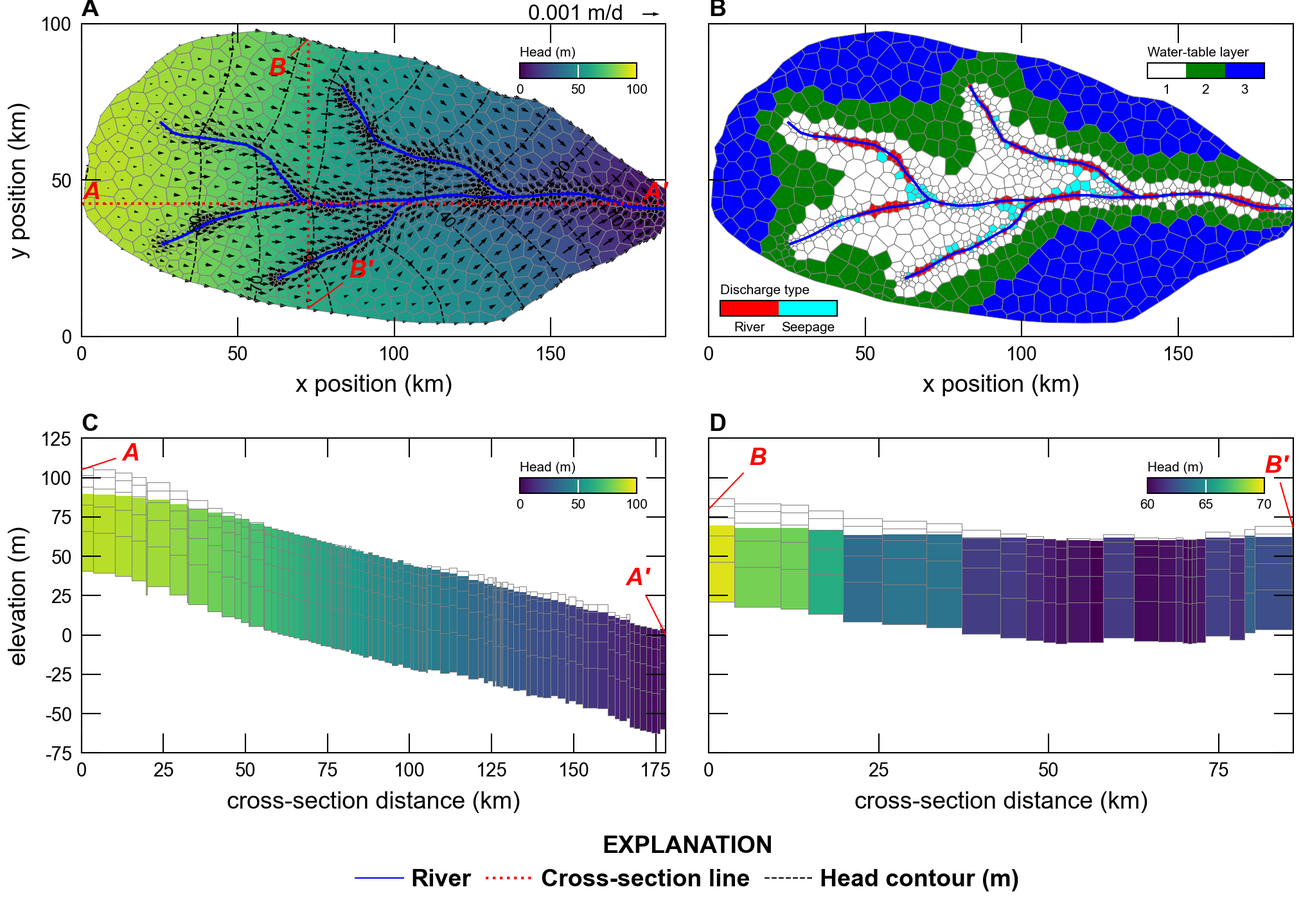
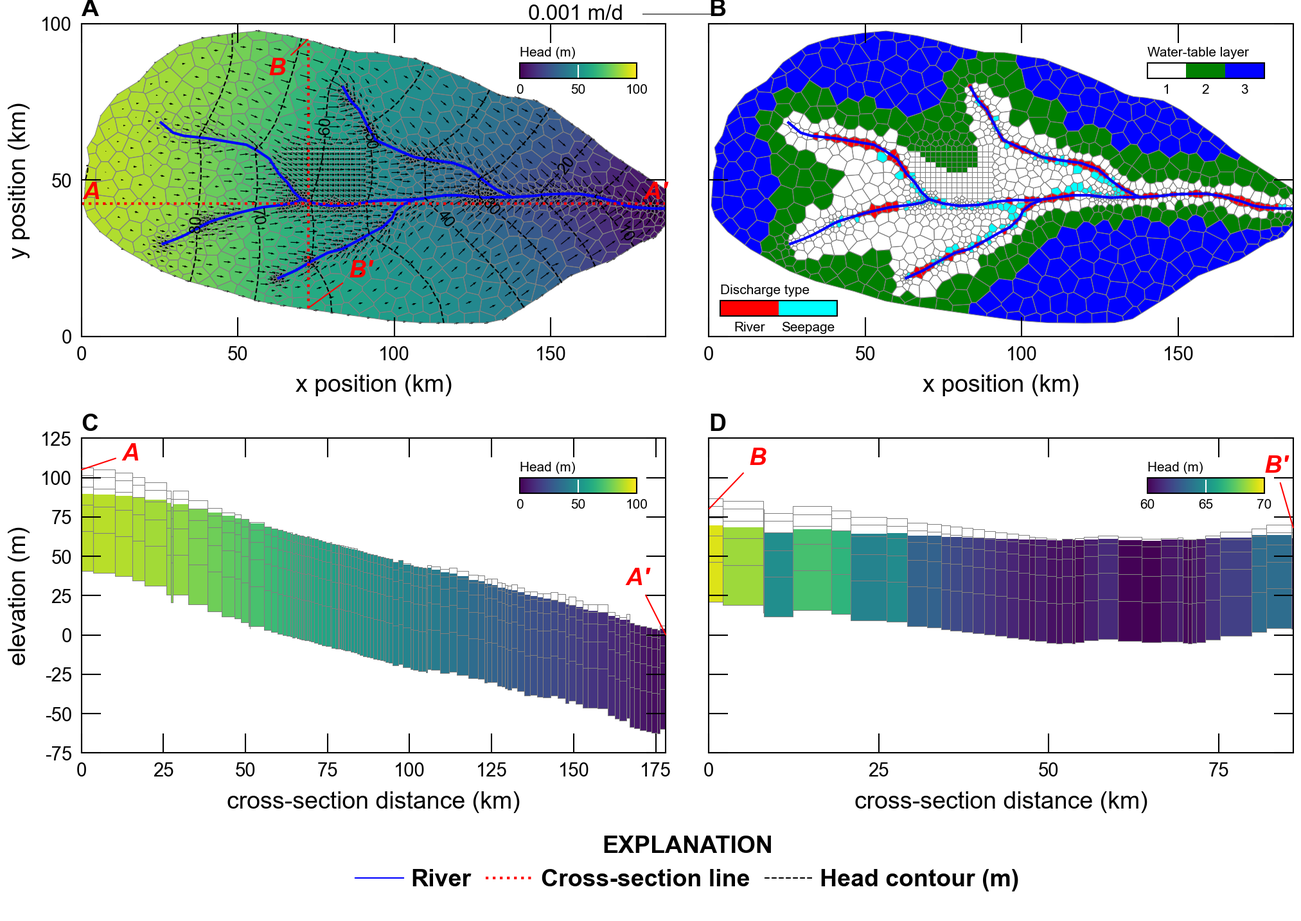
A bit more refinement

diff --git a/doc/mf6-flopy.tex b/doc/mf6-flopy.tex
@@ -114,14 +114,14 @@ xleftmargin=0.5cm,
 
 \onecolumn
 
-\title{Modern and Reproducible Groundwater Modeling Workflows with FloPy} 
+\title{FloPy Workflows for Creating and Constructing Structured and Unstructured MODFLOW 6 Models} 
 
 \maketitle
 
 
 \begin{abstract}
 
-\noindent FloPy is a popular Python package for creating, running, and post-processing MODFLOW-based groundwater flow and transport models.  FloPy functionality has expanded to support the latest version of MODFLOW (MODFLOW 6) including support for unstructured grids. FloPy can be used to download MODFLOW-based and other executables for Linux, MacOS, and Windows operatings systems, which simplifies the process required to download and use these executables. Expanded FloPy capabilities include (1) full support for structured and unstructured spatial discretizations; (2) geoprocessing of spatial features and raster data to develop model input for supported discretization types; (3) the addition of functionality to provide direct access to simulated output data; (4) extension of plotting capabilities to unstructured MODFLOW 6 discretization types; and (5) the ability to export model data to shapefiles, NetCDF, and VTK formats for processing, analysis, and visualization by other software products. Examples of using expanded FloPy capabilities are presented for a hypothetical watershed. An unstructured groundwater flow and transport model, with several advanced stress packages, is presented to demonstrate how FloPy can be used to develop complicated model datasets from original source data (shapefiles and rasters), post-process model results, and plot simulated results.
+\noindent FloPy is a popular Python package for creating, running, and post-processing MODFLOW-based groundwater flow and transport models.  FloPy functionality has expanded to support the latest version of MODFLOW (MODFLOW 6) including support for unstructured grids. FloPy can be used to download MODFLOW-based and other executables for Linux, MacOS, and Windows operatings systems, which simplifies the process required to download and use these executables. Expanded FloPy capabilities include (1) full support for structured and unstructured spatial discretizations; (2) geoprocessing of spatial features and raster data to develop model input for supported discretization types; (3) the addition of functionality to provide direct access to simulated output data; (4) extension of plotting capabilities to unstructured MODFLOW 6 discretization types; and (5) the ability to export model data to shapefiles, NetCDF, and VTK formats for processing, analysis, and visualization by other software products. Examples of using expanded FloPy capabilities are presented for a hypothetical watershed. An unstructured groundwater flow and transport model, with several advanced stress packages, is presented to demonstrate how FloPy can be used to develop complicated unstructured model datasets from original source data (shapefiles and rasters), post-process model results, and plot simulated results.
 
 \end{abstract}
 
@@ -133,7 +133,7 @@ FloPy has been used to pioneer new methods and analysis tools, such as deep lear
 
 We use FloPy extensively to teach MODFLOW and groundwater modeling to early- and mid-career engineers and scientists. Other organizations also use FloPy to teach MODFLOW (\textit{e.g.}, Hatari Labs and the Australian Water School). Annotated Jupyter notebooks \citep{Kluyver:2016aa} and example scripts demonstrate concepts and provide a resource that can be used as templates for developing real-world model applications. We routinely rely on FloPy to load and help identify problems in user model applications, and with the initial release of the MODFLOW 6 groundwater flow model \citep{modflow6gwf}, we started to rely on FloPy to help with development of the MODFLOW program. We write tests that rely on FloPy to construct and run models, and then read output. We then verify that the output is as expected, by using analytical solutions, other models, or results that have been confirmed to be correct.
 
-The purpose of this paper is to highlight important FloPy advances since it was first described by \cite{bakker2016scripting}, provide examples that demonstrate these new capabilities, and reinforce the advantages of the modern scripting workflow for developing reproducible groundwater flow and transport models that can be easily updated as new data become available. The important advances described here include (1) complete support for all models, packages, and options implemented in the core version of MODFLOW supported by the U.S. Geological Survey \citep{modflow6framework, modflow6gwf, modflow6xt3d, langevin2020hydraulic, morway2021use, modflow6gwt, modflow6csub, modflow6lkt}; (2) generalized support for models based on a regular grid consisting of layers, rows, and columns, and also for models based on unstructured grids; (3) implementation of new geoprocessing capabilities to rapidly populate models with data from a variety of input sources; (4) simplified access to model results; (5) plotting capabilities for map and cross-section views of model data; and (6) export capabilities for writing model data to a variety of output formats.
+The purpose of this paper is to highlight FloPy new functionality for creating and constructing structured and unstructured MODFLOW models. We provide examples that demonstrate these new capabilities, and reinforce the advantages of the modern scripting workflow for developing reproducible structured and unstructured MODFLOW groundwater flow and transport models that can be easily updated as new data become available. The important advances described here include (1) complete support for all models, packages, and options implemented in the core version of MODFLOW supported by the U.S. Geological Survey \citep{modflow6framework, modflow6gwf, modflow6xt3d, langevin2020hydraulic, morway2021use, modflow6gwt, modflow6csub, modflow6lkt}; (2) generalized support for models based on a regular grid consisting of layers, rows, and columns, and also for models based on unstructured grids; (3) implementation of new geoprocessing capabilities to rapidly populate models with data from a variety of input sources; (4) simplified access to model results; (5) plotting capabilities for map and cross-section views of model data; and (6) export capabilities for writing model data to a variety of output formats.
 
 
 \section{FloPy Support for MODFLOW 6}
@@ -201,14 +201,14 @@ MODFLOW 6 was developed to natively support multi-model simulations \citep{modfl
 
 FloPy supports management and generation of unstructured grids. Unstructured grids are represented as layered or fully unstructured. A layered grid is one in which the same grid applies to all model layers. An unstructured grid is more general and allows the model grid to change with depth. Layered grids and unstructured grids are stored in FloPy as \texttt{VertexGrid} and \texttt{UnstructuredGrid} objects, respectively.
 
-Layered quadtree grids can be created using the \texttt{Gridgen()} utility class, which is a wrapper around the GRIDGEN program \citep{gridgen}. GRIDGEN starts with a regular MODFLOW grid defined by the user. The program then recursively subdivides individual cells that intersect with refinement features into quarters until a maximum level of refinement is met. Refinement features may be points, lines, or polygons. Smoothing is automatically handled so that a cell is connected to no more than two cells in any primary horizontal direction and four cells in the vertical direction.  Figure \ref{fig:grids}D shows an example of a quadtree grid created with GRIDGEN in which a base grid is refined two levels along streams. The following Python code shows the steps for creating the quadtree grid with GRIDGEN.
+Layered quadtree grids can be created using the \texttt{Gridgen()} utility class, which is a wrapper around the GRIDGEN program \citep{gridgen}. GRIDGEN starts with a regular MODFLOW grid defined by the user. The program then recursively subdivides individual cells that intersect with refinement features into quarters until a maximum level of refinement is met. Refinement features may be points, lines, or polygons. Smoothing is automatically handled so that a cell is connected to no more than two cells in any primary horizontal direction and four cells in the vertical direction.  Figure \ref{fig:grids}D shows an example of a quadtree grid created with GRIDGEN in which a base grid is refined two levels along streams and in the child grid area shown in Figure \ref{fig:grids}C. The following Python code shows the steps for creating the quadtree grid with GRIDGEN.
 
 \begin{python}
 >>> sim = flopy.mf6.MFSimulation()
 >>> gwf = flopy.mf6.ModflowGwf(sim)
 >>> dis6 = flopy.mf6.ModflowGwfdis(gwf, nrow=nrow, ncol=ncol, delr=dy, delc=dx)
 >>> g = Gridgen(dis6, model_ws=temp_path)
->>> g.add_refinement_features([[closed_polygon_xy]], "polygon", 0, range(1))
+>>> g.add_refinement_features([[lgr_polygon_xy]], "polygon", 2, range(1))
 >>> g.add_refinement_features(stream_points, "line", 2, range(1))
 >>> g.build(verbose=False)
 >>> gridprops_vg = g.get_gridprops_vertexgrid()
@@ -229,6 +229,8 @@ FloPy also provides a wrapper utility for the Triangle mesh generation program \
 ... idomain=idomain, nlay=nlay, ncpl=tri.ncpl, top=top, botm=botm)
 ...
 \end{python}
+
+\noindent \texttt{nodes} in the triangular grid code shown above contains the user-specified stream vertices and the horizontal cell vertices for the child model shown in Figure \ref{fig:grids}C. 
 
 A triangular grid can be converted by FloPy into a Voronoi grid using the \texttt{VoronoiGrid()} utility class. The \texttt{VoronoiGrid()} utility class uses SciPy routines \citep{2020SciPy-NMeth} to construct Voronoi polygons around each vertex in the triangular mesh. Figure \ref{fig:grids}F shows an example of a Voronoi grid created from the triangular mesh shown in Figure \ref{fig:grids}D. The steps for creating the Voronoi grid from the previously created  \texttt{Triangle()} object (\texttt{tri}) are shown below.
 
@@ -389,7 +391,7 @@ FloPy plotting capabilities have been refined and updated to support plotting bo
 >>> plt.show()
 \end{python}
 
-\noindent Figure~\ref{fig:flopyplots}\textit{A} shows the outcome of the Python code demonstrated above with additional geographic features and fine-grained control of grid lines, text, annotations, tick locations, and axis labels. Results shown in Figure~\ref{fig:flopyplots} are for a steady-state model discretized into three convertible layers, with isotropic hydraulic properties, a hydraulic conductivity of 1 m/d, with rivers represented as drain cells, with drains located on the top of the model in layer 1, and with an areal recharge rate of 0.000001 m/d. Figure~\ref{fig:flopyplots}\textit{B} shows use of the \texttt{.plot\_array()} method to create a map of the layer containing the water table, drain cells where the groundwater is discharging to a river, and cells where groundwater is discharging to the surface.
+\noindent Figure~\ref{fig:flopyplots}A shows the outcome of the Python code demonstrated above with additional geographic features and fine-grained control of grid lines, text, annotations, tick locations, and axis labels. Results shown in Figure~\ref{fig:flopyplots} are for a steady-state model discretized into three convertible layers, with isotropic hydraulic properties, a hydraulic conductivity of 1 m/d, with rivers represented as drain cells, with drains located on the top of the model in layer 1, and with an areal recharge rate of 0.000001 m/d. Figure~\ref{fig:flopyplots}B shows use of the \texttt{.plot\_array()} method to create a map of the layer containing the water table, drain cells where the groundwater is discharging to a river, and cells where groundwater is discharging to the surface.
 
 The following Python code demonstrates the steps for plotting a cross section of simulated heads and the model grid for the \texttt{gwf} model along an arbitrary line defined using a list of x, y coordinate pairs (tuples) defining the vertices of the line. For structured grids, cross sections can also be specified along a row or column.
 
@@ -402,13 +404,13 @@ The following Python code demonstrates the steps for plotting a cross section of
 >>> plt.show()
 \end{python}
 
-\noindent The \texttt{head=} keyword option for the \texttt{plot\_array()} method above causes the plotting routine to draw and fill only the the saturated part of the model cell (determined using the simulated head and cell information). Without the \texttt{head=} keyword option, the entire cell from top to bottom would be color filled based on the head value.  Figure~\ref{fig:flopyplots}\textit{C} and \textit{D} show the outcome of the Python code demonstrated along cross-section lines A--A' and B--B' (shown in Figure~\ref{fig:flopyplots}\textit{A}) above with fine-grained control of grid lines, text, annotations, tick locations, and axis labels. Note that the color flood of head in Figure~\ref{fig:flopyplots}\textit{C} and \textit{D} shows that unconfined conditions occur in higher elevation cells or cells adjacent to river cells.
+\noindent The \texttt{head=} keyword option for the \texttt{plot\_array()} method above causes the plotting routine to draw and fill only the the saturated part of the model cell (determined using the simulated head and cell information). Without the \texttt{head=} keyword option, the entire cell from top to bottom would be color filled based on the head value.  Figure~\ref{fig:flopyplots}C and D show the outcome of the Python code demonstrated along cross-section lines A--A' and B--B' (shown in Figure~\ref{fig:flopyplots}A) above with fine-grained control of grid lines, text, annotations, tick locations, and axis labels. Note that the color flood of head in Figure~\ref{fig:flopyplots}C and D shows that unconfined conditions occur in higher elevation cells or cells adjacent to river cells.
 
 \begin{figure}[ht!]
 	\begin{center}
 		\includegraphics{figures/grids_flopy_plots.png}
 	\end{center}
-	\caption{Examples of FloPy map and cross-section plotting capabilities for a model discretized using a Voronoi grid (Figure~\ref{fig:grids}\textit{F}). (A) Map showing simulated heads and specific-discharge vectors in the upper-most saturated cells. (B) Map showing the layer containing the water table, the location of cells where the aquifer is discharged to rivers represented as drain cells, and the location of cells where groundwater is discharging to the land surface. (C) East-West cross-section along line A--A', shown on Figure~\ref{fig:flopyplots}\textit{A}, showing the model grid, simulated heads, and cells where water-table conditions exist. (D) North-South cross-section along line B--B', shown on Figure~\ref{fig:flopyplots}\textit{A}, showing the model grid, simulated heads, and cells where water-table conditions exist.}
+	\caption{Examples of FloPy map and cross-section plotting capabilities for a model discretized using a Voronoi grid (Figure~\ref{fig:grids}F). (A) Map showing simulated heads and specific-discharge vectors in the upper-most saturated cells. (B) Map showing the layer containing the water table, the location of cells where the aquifer is discharged to rivers represented as drain cells, and the location of cells where groundwater is discharging to the land surface. (C) East-West cross-section along line A--A', shown on Figure~\ref{fig:flopyplots}A, showing the model grid, simulated heads, and cells where water-table conditions exist. (D) North-South cross-section along line B--B', shown on Figure~\ref{fig:flopyplots}A, showing the model grid, simulated heads, and cells where water-table conditions exist.}
 	\label{fig:flopyplots}
 \end{figure}
 
@@ -438,7 +440,7 @@ The following Python code demonstrates the steps for exporting the \texttt{gwf} 
 
 In this section, FloPy is used to construct, run, and post process a MODFLOW 6 model.  All pre- and post-processing was done using FloPy grid, geospatial processing, MODFLOW 6 processing, and plotting functionality discussed previously. Figures~\ref{fig:mvgrid},~\ref{fig:mvxsection}, and~\ref{fig:mvconc} were created using a combination of FloPy plotting functionality and matplotlib plotting methods \citep{hunter2007matplotlib}. Jupyter notebooks \citep{Kluyver:2016aa} showing the commands for creating the model data sets, processing model results, and plotting these figures are available at the locations indicated in the Data Availability Statement section.
 
-\cite{hill1998} present a synthetic test case (Synthetic Valley) of an undeveloped alluvial valley surrounded by low permeability bedrock. The model includes the Blue Lake and Straight River surface water features (Figure~\ref{fig:mvgrid}\textit{A}). The model in \cite{hill1998} was calibrated and simulated using MODFLOWP \citep{hill1992computer} using a structured grid with a constant 152.4 m grid spacing, three model layers, and 1,000 active cells per layer. The upper two layers represent an unconfined aquifer, and the third layer represents a lower aquifer unit that is separated from the overlying aquifer by a confining unit in the northern part of the model domain (Figure~\ref{fig:mvgrid}\textit{A}). The confining unit was not explicitly represented by \cite{hill1998}; instead a quasi-3D approach (low vertical conductance) between layers 2 and 3 was used to represent the confining unit.
+\cite{hill1998} present a synthetic test case (Synthetic Valley) of an undeveloped alluvial valley surrounded by low permeability bedrock. The model includes the Blue Lake and Straight River surface water features (Figure~\ref{fig:mvgrid}A). The model in \cite{hill1998} was calibrated and simulated using MODFLOWP \citep{hill1992computer} using a structured grid with a constant 152.4 m grid spacing, three model layers, and 1,000 active cells per layer. The upper two layers represent an unconfined aquifer, and the third layer represents a lower aquifer unit that is separated from the overlying aquifer by a confining unit in the northern part of the model domain (Figure~\ref{fig:mvgrid}A). The confining unit was not explicitly represented by \cite{hill1998}; instead a quasi-3D approach (low vertical conductance) between layers 2 and 3 was used to represent the confining unit.
 
 %\lipsum[12-18]
 
@@ -452,11 +454,11 @@ In this section, FloPy is used to construct, run, and post process a MODFLOW 6 m
 
 \subsection{MODFLOW 6 Model Setup}
 
-To demonstrate that capabilities of FloPy and MODFLOW 6 the 6,096 m x 3,810 m model domain is discretized using a Voronoi grid, with 6,343 active cells per layer, and the discretization by vertices (DISV) package (Figure~\ref{fig:mvgrid}\textit{A}). The model grid was developed using the \texttt{Triangle()} and \texttt{VoronoiGrid()} utility classes. The model grid was refined within Blue Lake, around Straight River using a 750 m buffer length, and around pumping wells P1, P2, and P3 using a 100 m buffer length.
+To demonstrate that capabilities of FloPy and MODFLOW 6 the 6,096 m x 3,810 m model domain is discretized using a Voronoi grid, with 6,343 active cells per layer, and the discretization by vertices (DISV) package (Figure~\ref{fig:mvgrid}A). The model grid was developed using the \texttt{Triangle()} and \texttt{VoronoiGrid()} utility classes. The model grid was refined within Blue Lake, around Straight River using a 750 m buffer length, and around pumping wells P1, P2, and P3 using a 100 m buffer length.
 
 In this example both groundwater flow and solute transport are simulated.  To better represent solute transport, the lower aquifer has been discretized into 3 layers (instead of one). Confining units have to be explicitly simulated in MODFLOW 6, therefore, a total of six layers are simulated. The bottom of layers 1, 2, 3, and 4 were set to constant values of -1.53, -15.24, -15.55 and -30.48 m, respectively. The \texttt{IDOMAIN} concept \citep{modflow6gwf} was used to eliminate cells in model layer 3 (by setting \texttt{IDOMAIN=-1}) where the confining unit does not exist. In these areas, the thickness of layer 3 was set to zero and \texttt{IDOMAIN} was set to -1, which marks these cells in layer 3 as ``vertical pass through cells'' and results in cells in layer 2 being directly connected to cells in layer 4. 
 
-The bottom of the model (layer 6) is based on \cite{hill1998} and the bottom of layer 5 was specified to be half the distance between the bottom of layers 4 and 6. The top of the model was developed from topographic contours developed for the model that was used as the starting point for \cite{hill1998} \citep{pollock2014percomm}; the top of the model is shown in Figure~\ref{fig:mvmap}\textit{A}. The top of the model and the bottom of layer 6 were resampled from the data used in the structured grid model using the \texttt{.resample\_to\_grid()} method available on the \texttt{VertexGrid} for the model and linear interpolation.  Figure~\ref{fig:mvxsection} shows the vertical discretization along cross-section lines A--A' and B--B', which are shown in Figure~\ref{fig:mvmap}\textit{A}.
+The bottom of the model (layer 6) is based on \cite{hill1998} and the bottom of layer 5 was specified to be half the distance between the bottom of layers 4 and 6. The top of the model was developed from topographic contours developed for the model that was used as the starting point for \cite{hill1998} \citep{pollock2014percomm}; the top of the model is shown in Figure~\ref{fig:mvmap}A. The top of the model and the bottom of layer 6 were resampled from the data used in the structured grid model using the \texttt{.resample\_to\_grid()} method available on the \texttt{VertexGrid} for the model and linear interpolation.  Figure~\ref{fig:mvxsection} shows the vertical discretization along cross-section lines A--A' and B--B', which are shown in Figure~\ref{fig:mvmap}A.
 
 \begin{figure}[ht!]
 	\begin{center}
@@ -478,9 +480,9 @@ Hydraulic properties for the model were resampled from the data used in the stru
 
 For the groundwater transport model the porosity was set to 0.2 in the upper and lower aquifer and 0.4 for cells in the confining unit.  For the transport model, the Total Variation Diminishing scheme was used to simulate advection.  Dispersion was simulated using a longitudinal dispersivity of 75 m and a transverse dispersivity of 7.5 m.  Molecular diffusion was not represented.
 
-In the \cite{hill1998} representation of Synthetic Valley, the Straight River was simulated as head-dependent river (RIV) package cells, and Blue Lake was simulated as a high-hydraulic conductivity feature in model layer 1. In this recreation, Straight River is simulated using the streamflow routing (SFR) package, and Blue Lake is simulated using the LAK package. The SFR and LAK package cells were determined using \texttt{GridIntersect().intersect()} FloPy functionality (Figure~\ref{fig:mvgrid}\textit{A}). 
+In the \cite{hill1998} representation of Synthetic Valley, the Straight River was simulated as head-dependent river (RIV) package cells, and Blue Lake was simulated as a high-hydraulic conductivity feature in model layer 1. In this recreation, Straight River is simulated using the streamflow routing (SFR) package, and Blue Lake is simulated using the LAK package. The SFR and LAK package cells were determined using \texttt{GridIntersect().intersect()} FloPy functionality (Figure~\ref{fig:mvgrid}A). 
 
-Straight River was discretized into 108 SFR reaches. Cells that intersect the northern and southern end of Straight River are shown in Figures~\ref{fig:mvgrid}\textit{B} and \textit{C}. The bed thickness and  width of each SFR reach was specified to be 0.3048 and 3.048 m, respectively. The leakance for each SFR reach was calculated using the bed thickness, reach width, and reach length in each cell and based on a total Straight River conductance of 50,971.72 m$^2$/d. A specified rainfall rate of 0.0025 m/d and a potential evaporation rate of  0.0019 m/d was defined for each Straight River reach.
+Straight River was discretized into 108 SFR reaches. Cells that intersect the northern and southern end of Straight River are shown in Figures~\ref{fig:mvgrid}B and C. The bed thickness and  width of each SFR reach was specified to be 0.3048 and 3.048 m, respectively. The leakance for each SFR reach was calculated using the bed thickness, reach width, and reach length in each cell and based on a total Straight River conductance of 50,971.72 m$^2$/d. A specified rainfall rate of 0.0025 m/d and a potential evaporation rate of  0.0019 m/d was defined for each Straight River reach.
 
 Blue Lake was simulated as a lake on top of the model grid and only had vertical connections to 1,406 cells in the underlying upper aquifer (model layer 1). A bed leakance of 0.0013 1/d was specified for each cell connected to Blue Lake. A specified rainfall rate of 0.0025 m/d and a potential evaporation rate of 0.0019 m/d was defined for Blue Lake.
 
@@ -488,7 +490,7 @@ Drain (DRN) cells were specified in each cell in model layer 1 that was not conn
 
 Areal specified recharge and potential evapotranspiration rates of 0.0025 and 0.0019 m/d were specified using the recharge (RCH) and evapotranspiration (EVT) packages, respectively. The EVT surface was specified to be the top of the model and the EVT extinction depth was specified to be 1 m.
 
-The location of pumping wells P1, P2, and P3 were determined using \texttt{GridIntersect().intersect()} FloPy functionality (Figure~\ref{fig:mvgrid}\textit{A}). Pumping rates of -7,600, -7,600, and -1,900 m$^3$/d were specified for pumping wells P1, P2, and P3, respectively.
+The location of pumping wells P1, P2, and P3 were determined using \texttt{GridIntersect().intersect()} FloPy functionality (Figure~\ref{fig:mvgrid}A). Pumping rates of -7,600, -7,600, and -1,900 m$^3$/d were specified for pumping wells P1, P2, and P3, respectively.
 
 Transport was not simulated in the LAK and SFR packages. Instead, a specified concentration condition with a concentration of 1.0 mg/L was specified for Blue Lake. All other stress packages were assumed to have a concentration of 0 mg/L.
 
@@ -499,7 +501,7 @@ The groundwater flow model used the Newton-Raphson Formulation with Newton under
  
 The groundwater flow and transport models were run for a total of 30 years. The groundwater flow model used a single steady-state time step and groundwater flow results were used to run the transport model with a total of 360 time steps with a constant length of 30.4375 days.
  
-Simulated heads and vectors of specific discharge in model layer 1 are shown in Figure~\ref{fig:mvmap}\textit{B}.  Specific discharge is greatest on the east side of Blue Lake and in the vicinity of the three pumping wells and Straight River. Cross sections showing simulated heads along cross-sections A--A' and B--B' are shown in Figure~\ref{fig:mvxsection}. The cross sections show that water table conditions occur in most of the model domain except in the vicinity of Blue Lake.
+Simulated heads and vectors of specific discharge in model layer 1 are shown in Figure~\ref{fig:mvmap}B.  Specific discharge is greatest on the east side of Blue Lake and in the vicinity of the three pumping wells and Straight River. Cross sections showing simulated heads along cross-sections A--A' and B--B' are shown in Figure~\ref{fig:mvxsection}. The cross sections show that water table conditions occur in most of the model domain except in the vicinity of Blue Lake.
 
 Simulated concentrations at the end of 30-years in all six model layers are shown in Figure~\ref{fig:mvconc}. Simulated concentrations are highest beneath Blue Lake in model layer 1 and do not vary much in model layers 1 and 2. Simulated concentrations in model layer 3 are limited to the extent of the confining unit because the remaining cells in the layer are defined to be vertical pass through cells (\texttt{IDOMAIN=-1}). The lateral extent of the solute plume does not vary much south of Blue Lake because of the lack of confinement in these areas.
 

diff --git a/notebooks/defaults.py b/notebooks/defaults.py
@@ -148,7 +148,7 @@ streamseg1 = """1.868012422360248456e+05 4.086956521739130403e+04
 2.934782608695651652e+04 6.509316770186336362e+04
 2.546583850931676716e+04 6.832298136645962950e+04"""
 
-streamseg2 = """6.972049689440995280e+04 4.347826086956522340e+04
+streamseg2 = """7.025161490683228476e+04 4.375093167701864149e+04
 6.816770186335404287e+04 4.273291925465839449e+04
 6.490683229813665093e+04 4.211180124223603343e+04
 6.164596273291925900e+04 4.173913043478262261e+04
@@ -161,7 +161,7 @@ streamseg2 = """6.972049689440995280e+04 4.347826086956522340e+04
 3.649068322981366509e+04 3.416149068322981475e+04
 3.322981366459628043e+04 3.242236024844721760e+04
 3.012422360248447148e+04 3.105590062111801672e+04
-2.608695652173913550e+04 2.956521739130435890e+04"""
+2.608695652173913550e+04 2.957521739130435890e+04"""
 
 streamseg3 = """1.059006211180124228e+05 4.335403726708074828e+04
 1.029503105590062187e+05 4.223602484472050128e+04
